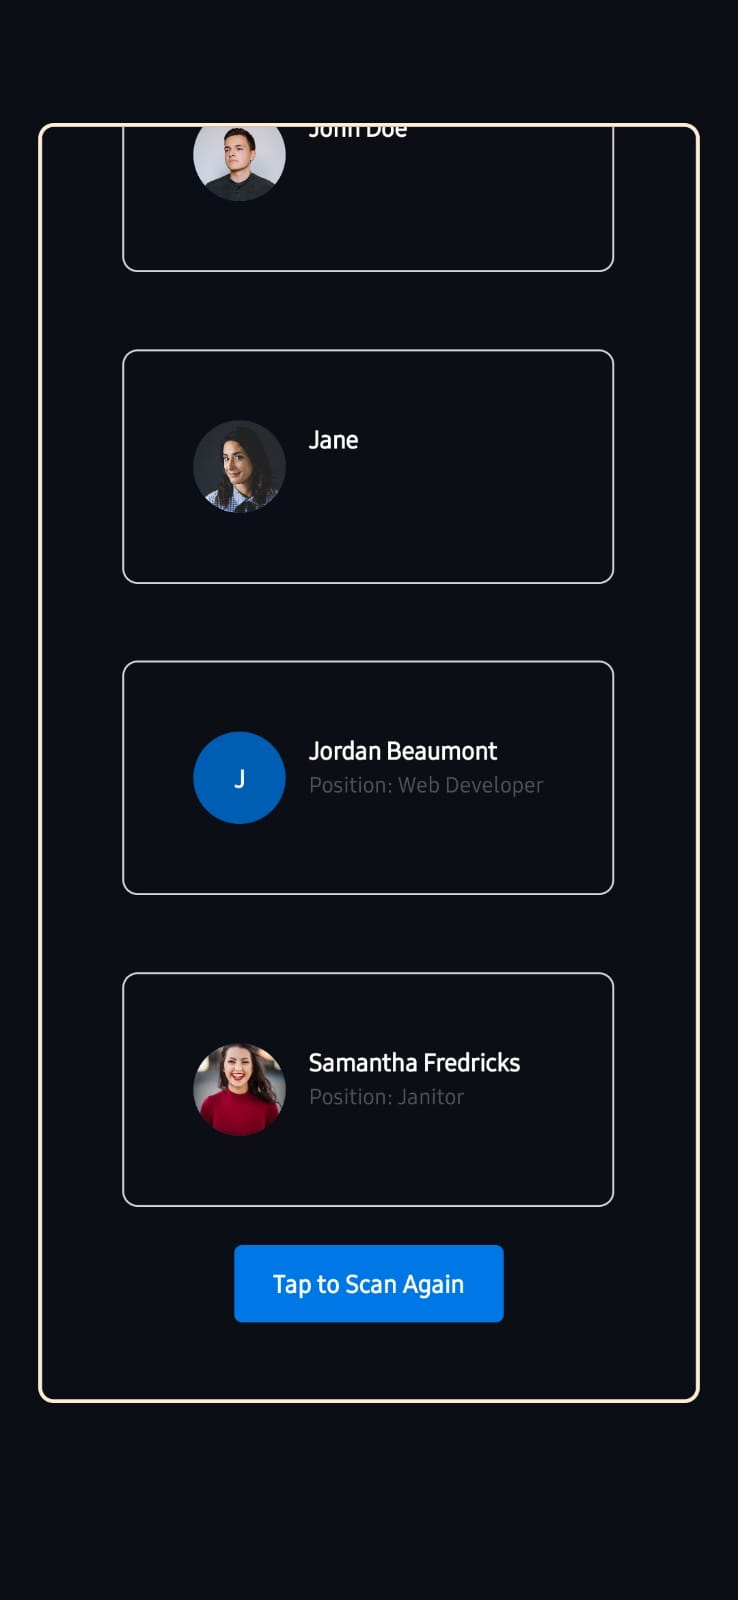
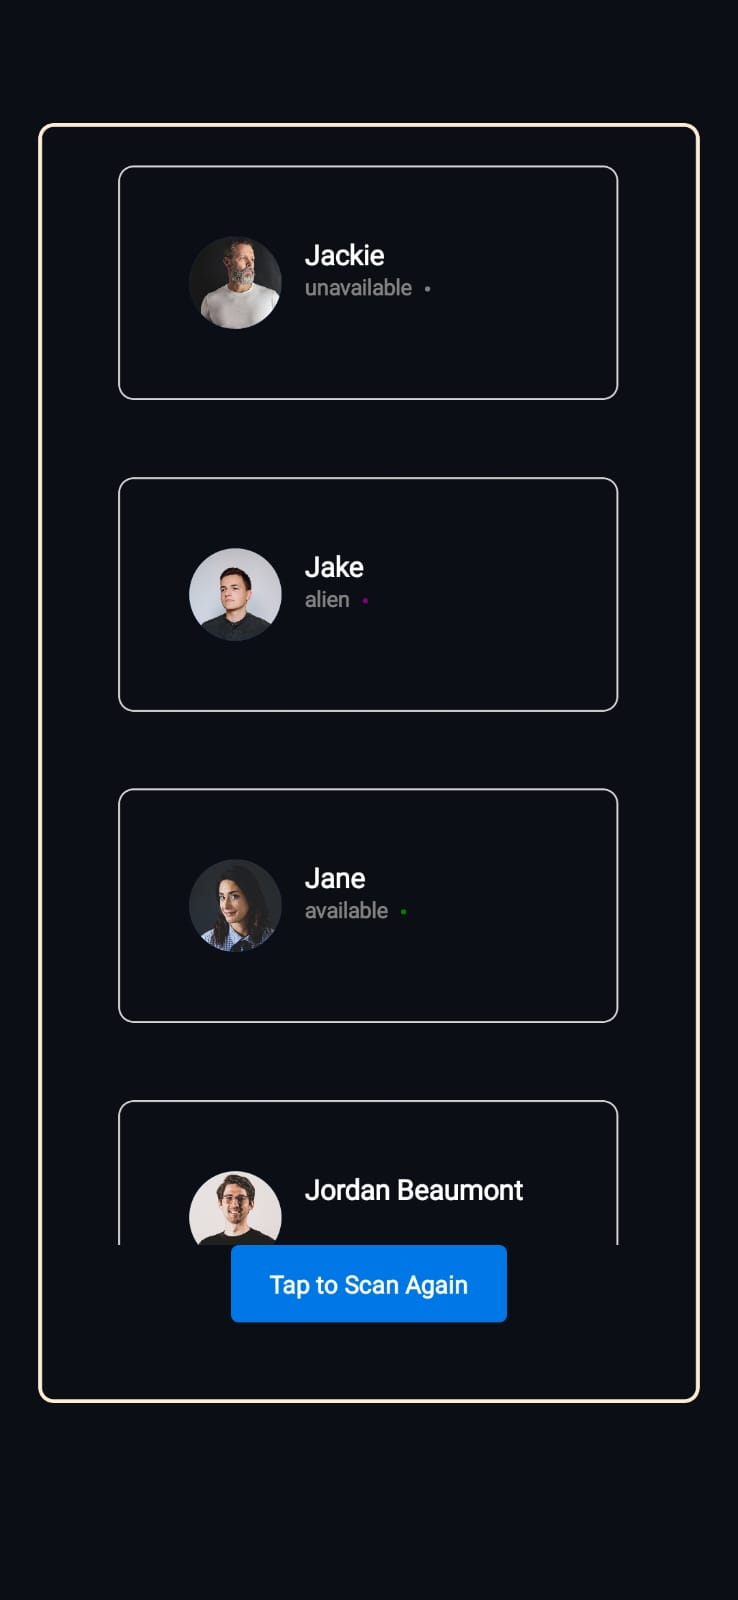
updated README and screenshots

diff --git a/README.md b/README.md
@@ -1,5 +1,5 @@
-QR conference connector - Contact List (794)
-For raw project instructions see: http://syllabus.africacode.net/react-native/qr-conference-connector/contact-list/
+QR conference connector - Adding Tests (794)
+For raw project instructions see: http://syllabus.africacode.net/react-native/qr-conference-connector/adding-tests/
 
 ## Instructions
 
@@ -32,6 +32,8 @@ Please find the QR Codes inside the `qr_code_samples` folder.
 ### Screenshots
 
 ![Home Screen](./Screenshots/Home.jpg)
+![Home Screen when contacts exist](./Screenshots/HomeWithBackButton.jpg)
+![Contact Details](./Screenshots/ContactScreen.jpg)
 ![Contact List](./Screenshots/User.jpg)
 ![Invalid QR](./Screenshots/InvalidQR.jpg)
 ![Empty Contact List](./Screenshots/NoContacts.jpg)
